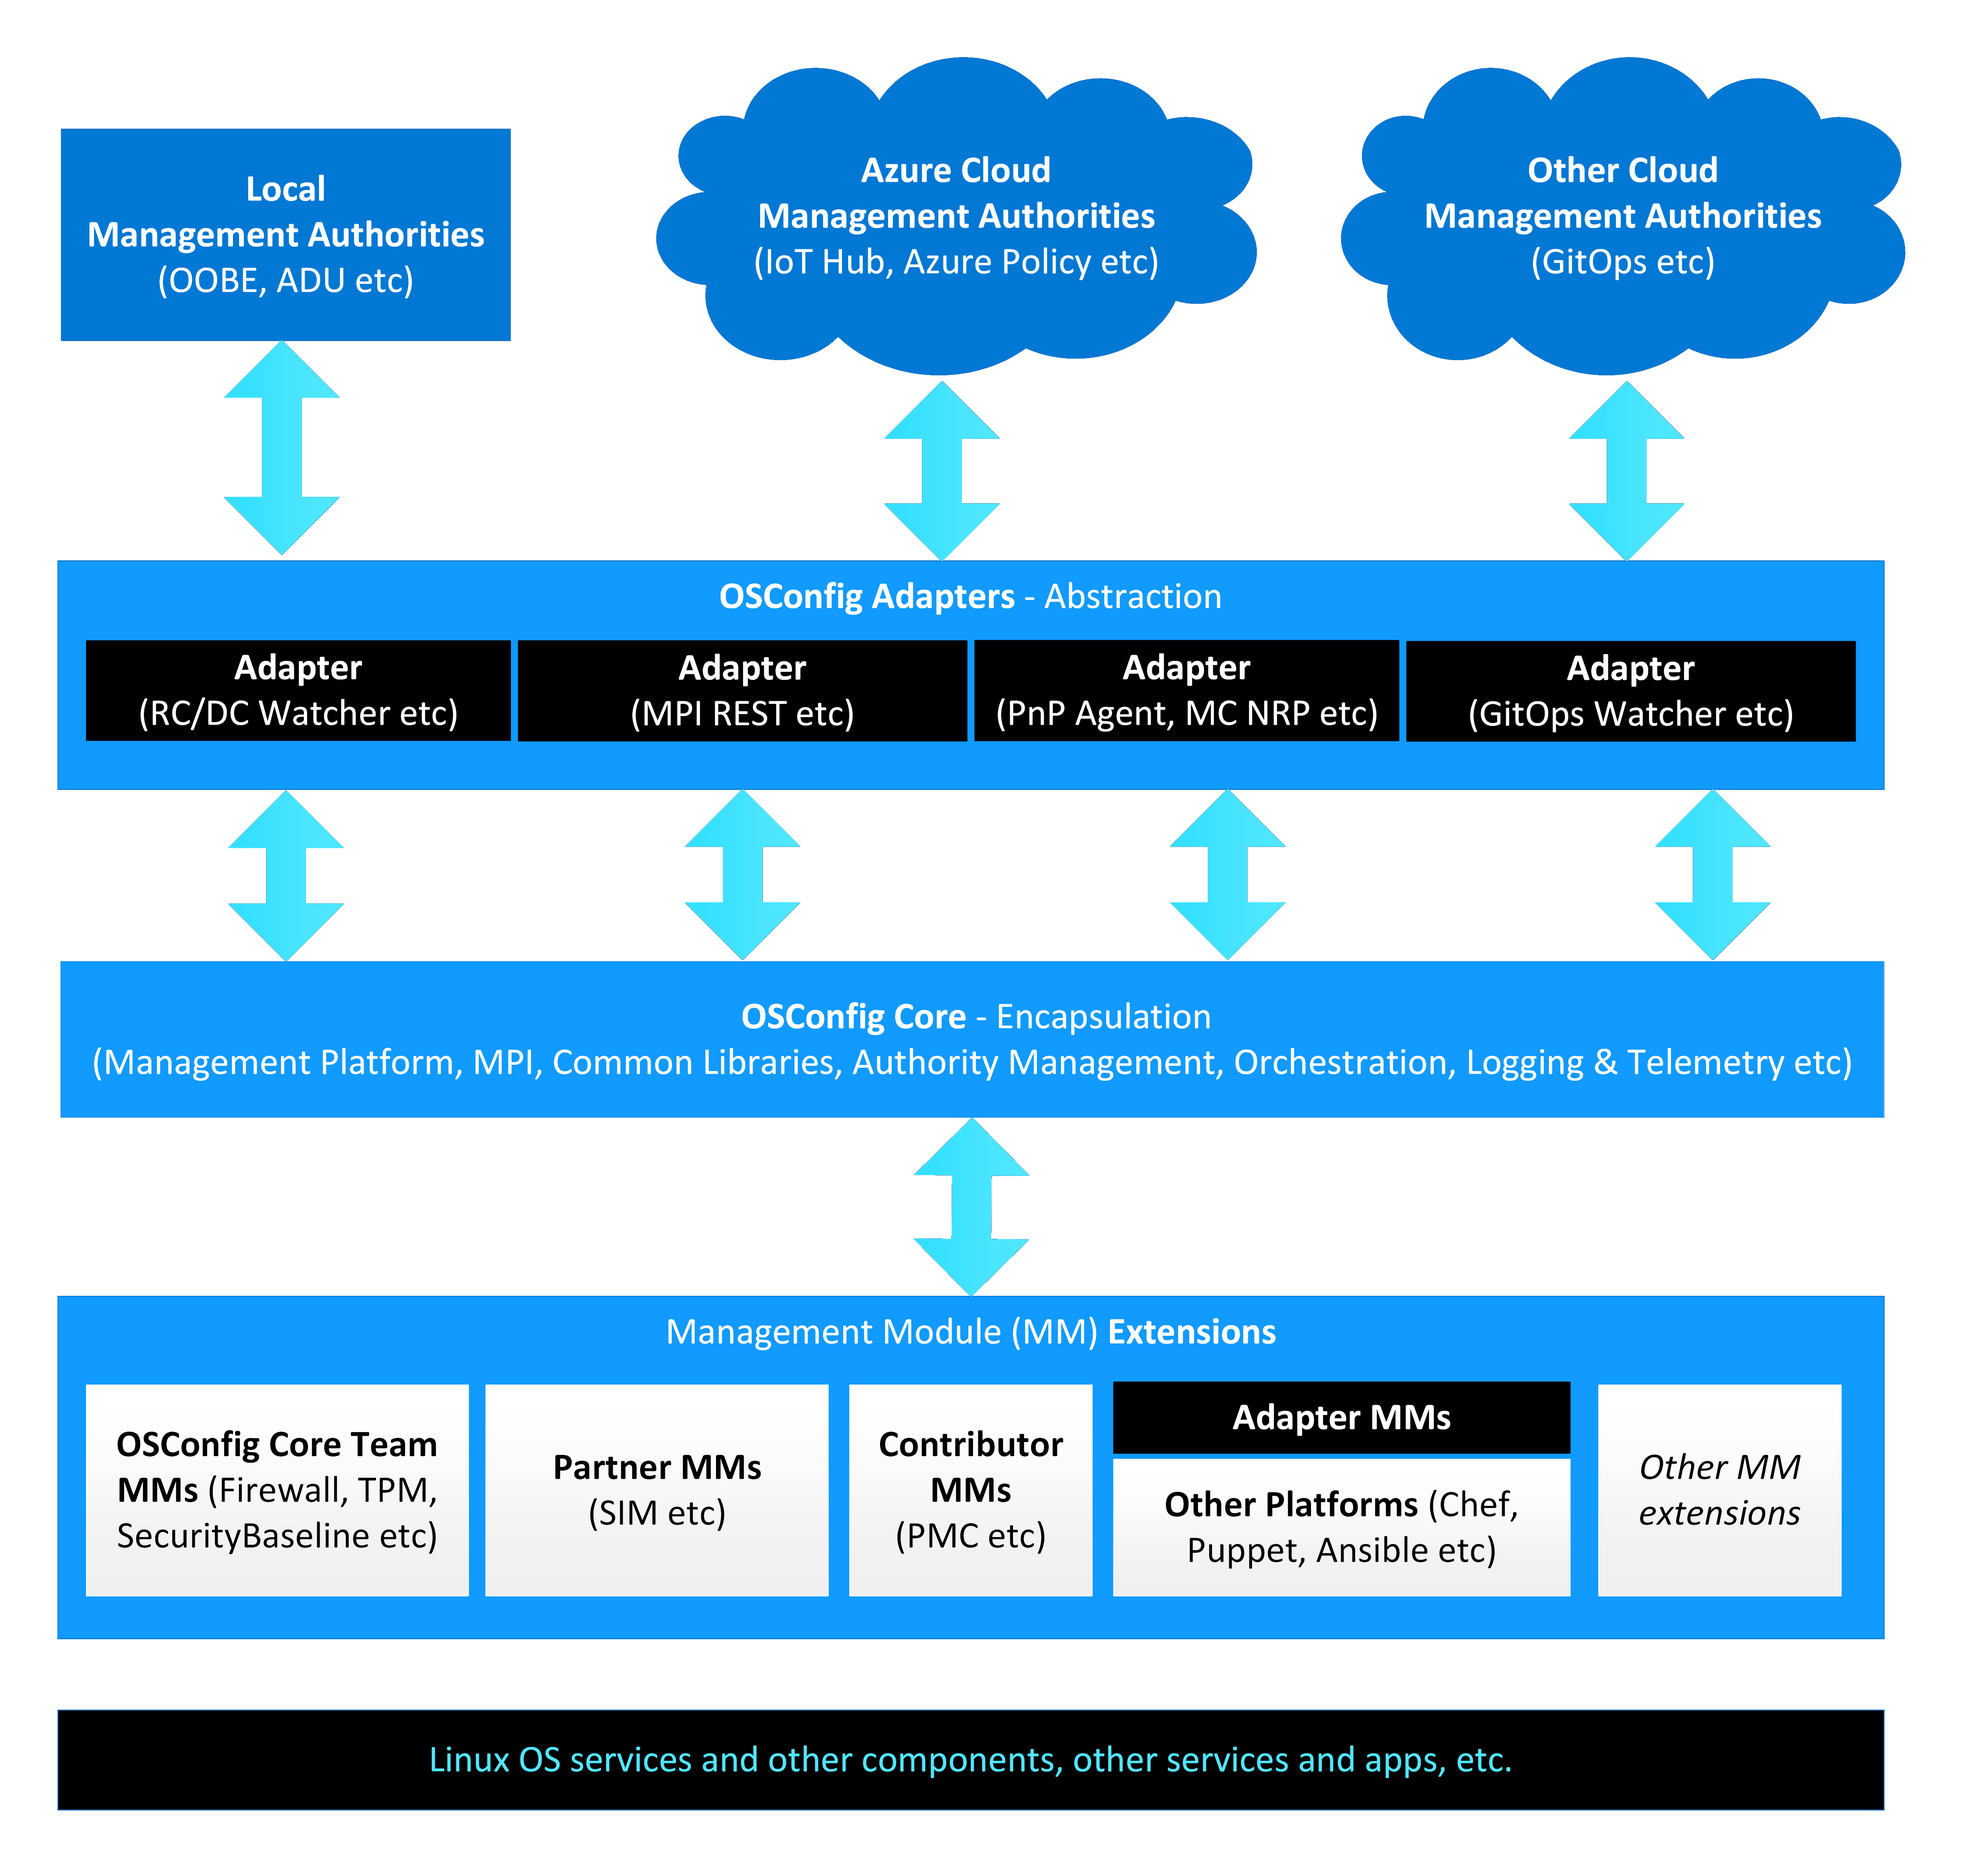
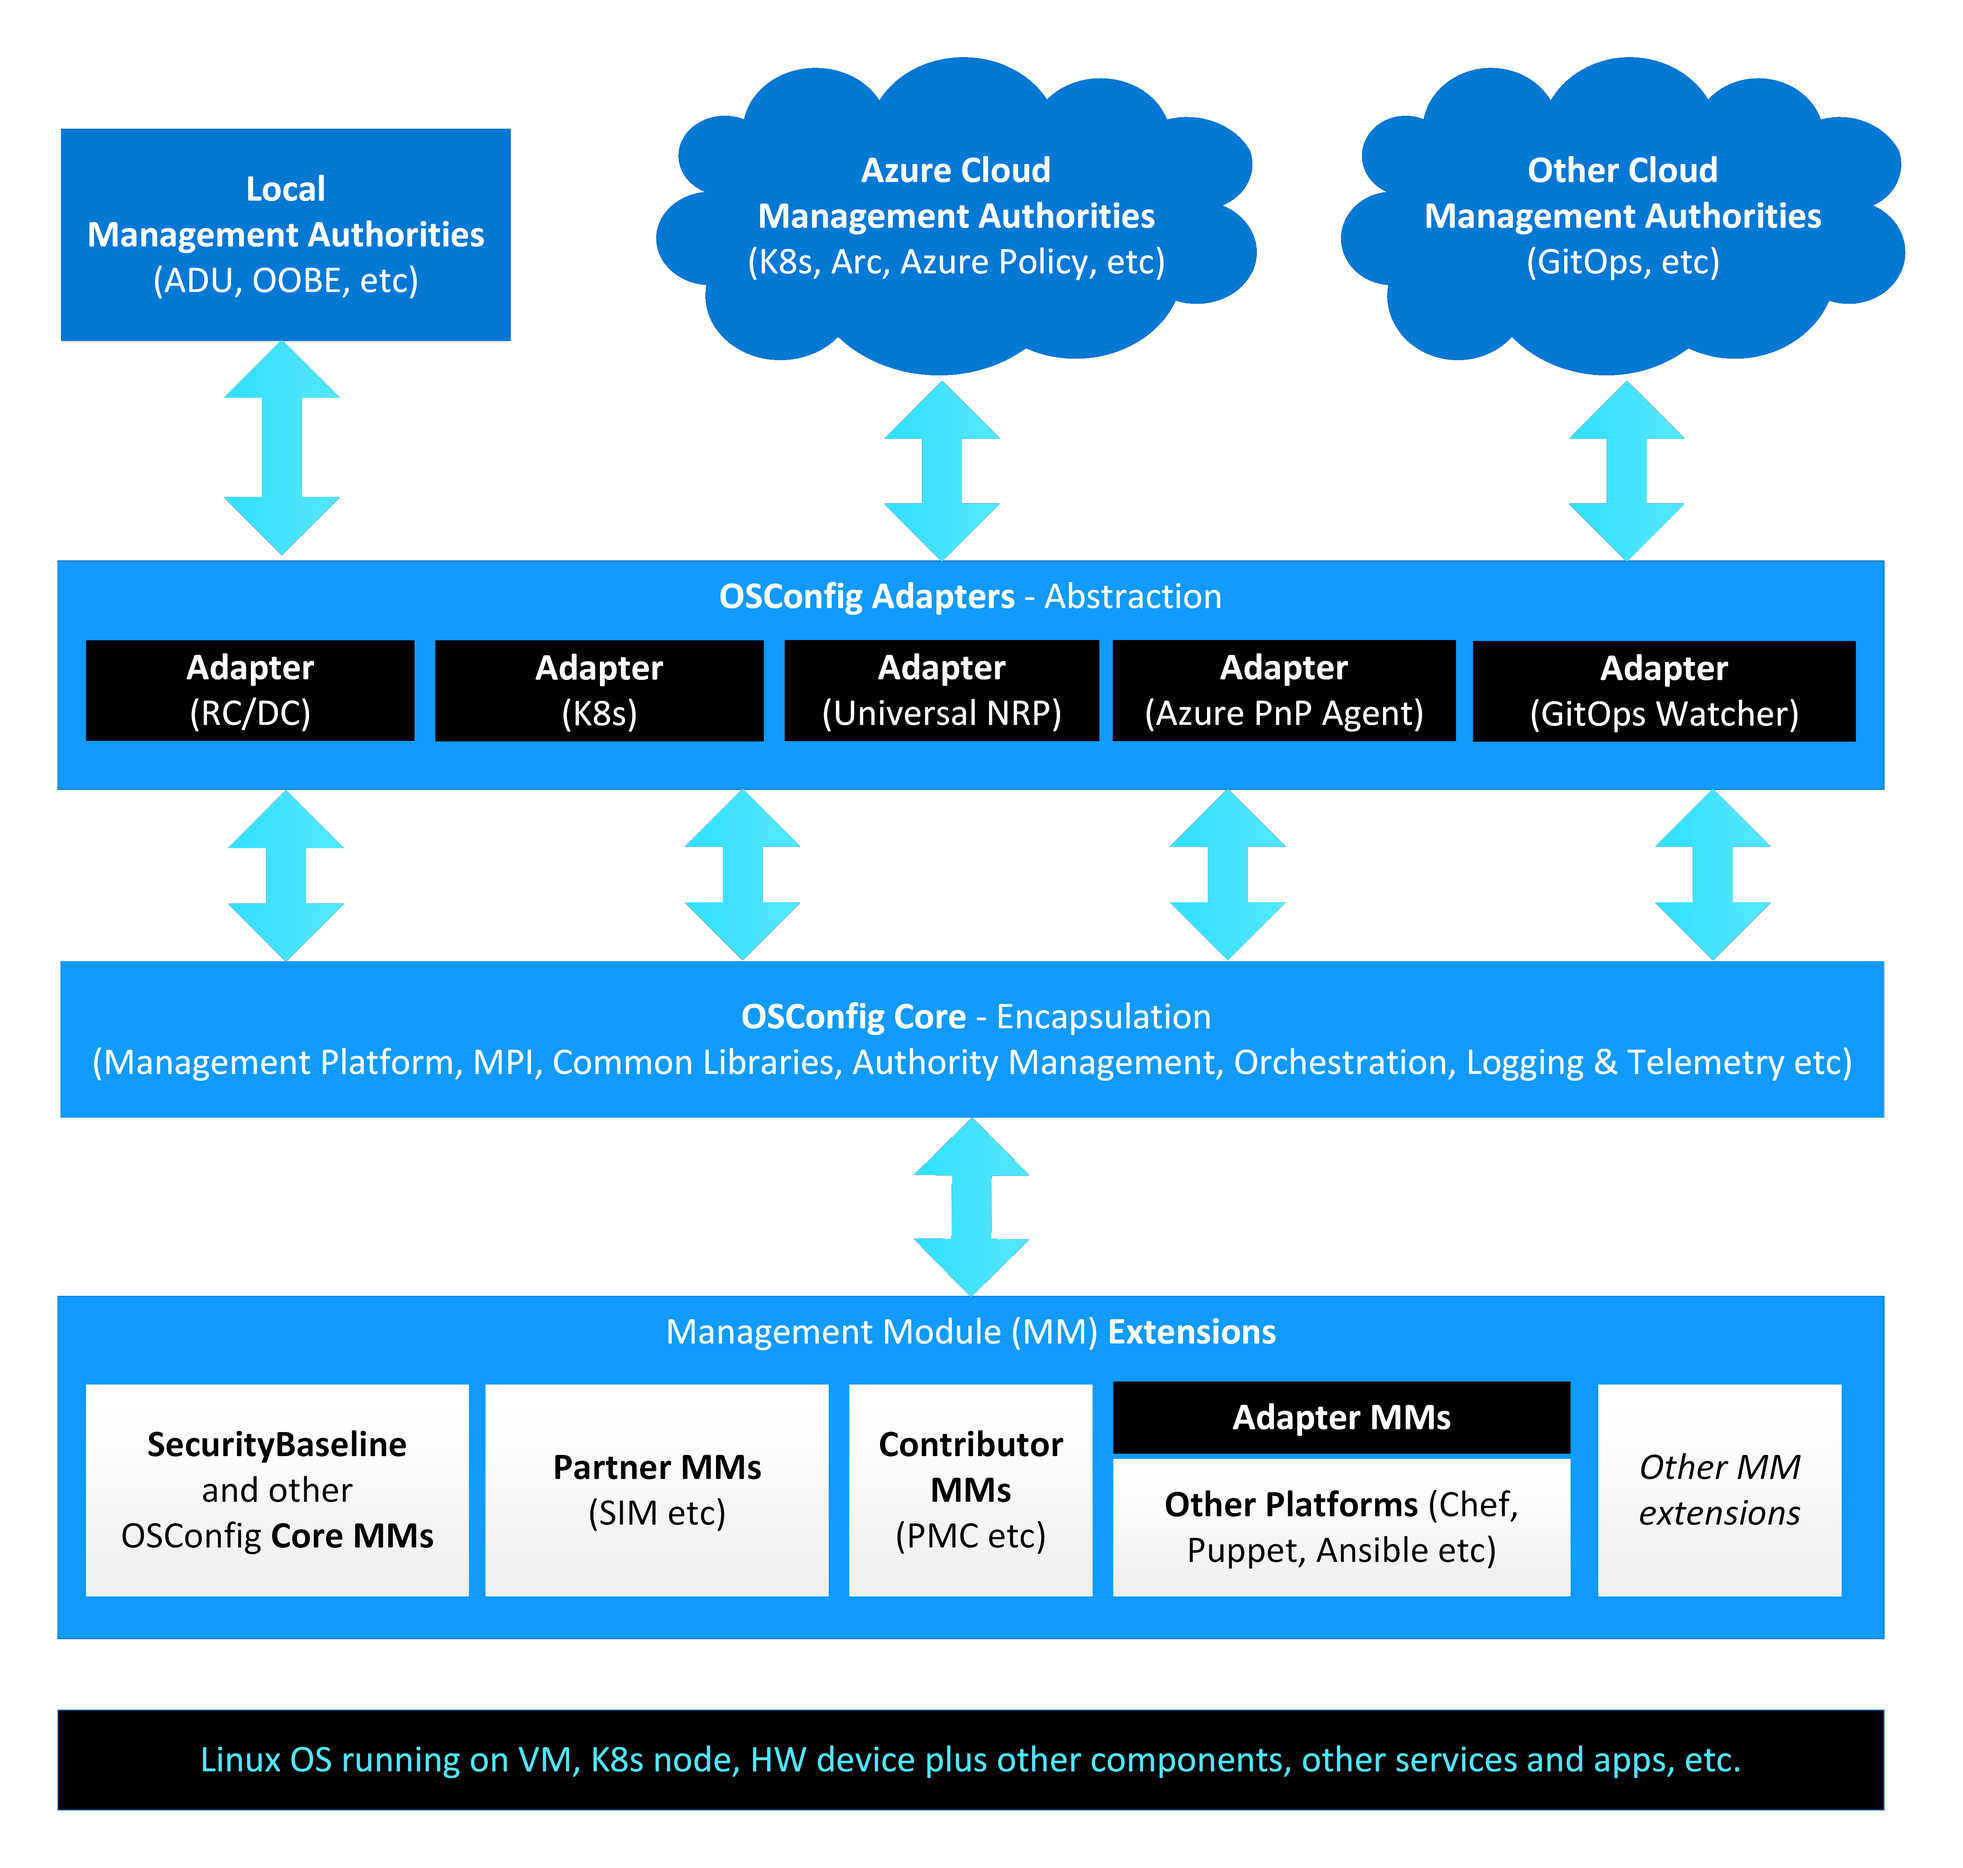
Updating project documentation for catching up with source code (#640)

diff --git a/docs/roadmap.md b/docs/roadmap.md
@@ -4,9 +4,9 @@ Author: [MariusNi](https://github.com/MariusNi)
 
 # 1. Introduction
 
-Azure Device OS Configuration (OSConfig) is a modular services stack running on a Linux IoT Edge device that facilitates remote device management over Azure as well from local management authorities.
+Azure OSConfig is a modular security configuration stack for Linux Edge devices. OSConfig supports multi-authority device management over Azure and Azure Portal/CLI, GitOps, as well as local management.
 
-Development of OSConfig happens in stages. This document describes the development roadmap of the OSConfig project.
+This document describes the development roadmap of the OSConfig project.
 
 During any of these stages OSConfig can be extended by adding new [OSConfig Management Modules](modules.md).
 
@@ -55,26 +55,35 @@ OSConfig continues to run as a monolithic process and can accept requests from a
  
 # 4. Detached Platform (codename Copper)
 
-The Management Platform runs in its own process, separate of the PnP Agent. OSConfig can accept request from both local and remote management authorities.
+The concept of Adapters is introduced. The Management Platform runs in its own process. OSConfig can accept request from both local and remote management authorities.
 
 - The OSConfig separates the Agent and the Management Platform into two separate daemon processes.
 - The IPC REST API over Unix Domain Sockets (UDS) and HTTP for MPI is introduced.
-- The Management Platform can accept MPI requests from other Agent Authorities (like ADU).
+- The Management Platform can accept MPI requests from other Managament Authority Adapters.
 - Modules continue to work unchanged, same as in previous releases, as Dynamically Loaded Shared Object libraries exporting the MMI C API. The Platform loads these libraries in-proc.
 - Other Management Modules appear (not shown in diagram).
 
 <img src="assets/4_platform.png" alt="Copper" width=70%/>
+
+# 5. GitOps, Azure Policy, Security Baseline (codename Germanium)
+
+The Universal NRP and the Security Modules can be used to audit and remediate the Linux Security Baseline over Azure Policy and AutoManage Machine Configuration.
+
+- A new OSConfig Universal NRP is added for Azure Policy and Machine Configuration.
+- A new GitOps DC Watcher is added for accepting desired configuration from a Git repository.
+- A new SecurityModule module implements the Azure Security Baseline for Linux.
+- Modules continue to work unchanged, same as in previous releases, as Dynamically Loaded Shared Object libraries exporting the MMI C API. The Platform loads these libraries in-proc.
+
+<img src="assets/7_osconfig_ge.png" alt="Germanium" width=70%/>
   
-# 5. Isolated Modules - the current North Star (codename Gallium)
+# 6. Isolated Modules - the current North Star (codename Krypton)
 
 Main target scenario: OSConfig Management Modules run isolated in their own processes, Azure Policy and GitHub
 
 - The IPC REST API over UDS for Management Modules Interface (MMI) is introduced.
 - The Module Host is introduced. The Modules Manager instead of loading in-proc the module libraries, it forks a Module Host process to load each module library out-of-proc of the platform.
 - Modules continue to work unchanged, same as in previous releases, as Dynamically Loaded Shared Object libraries exporting the MMI C API. The Module Host provides the MMI REST API on top.
-- A new OSConfig NRP is added for MC and Azure Policy.
-- The local management RC/DC are complemented with a remote Git DC.
 - New Storage and Downloader utility libraries are introduced for Platform and Modules to use.
 - Other new Management Modules appear (not shown in diagram).
 
-<img src="assets/osconfig.png" alt="Zinc" width=70%/>
+<img src="assets/osconfig.png" alt="Krypton" width=70%/>

diff --git a/docs/modules.md b/docs/modules.md
@@ -4,17 +4,17 @@ Author: [MariusNi](https://github.com/MariusNi)
 
 # 1. Introduction
 
-Azure Device OS Configuration (OSConfig) is a modular services stack running on a Linux IoT Edge device that facilitates remote device management over Azure as well from local management authorities. 
+Azure OSConfig is a modular security configuration stack for Linux Edge devices. 
 
-OSConfig contains a PnP Agent, a Management Platform (Modules Manager) and several Management Modules.
+OSConfig contains a set of Adapters, a Management Platform (including a Modules Manager) and several Management Modules.
 
 The main way of contributing to and extending OSConfig is via developing new Management Modules.
 
-Each Management Module typically implements one device OS configuration function. OSConfig isolates the module from the PnP and Digital Twins Definition Language (DTDL) protocols and from the Edge authentication with the IoT Hub. OSConfig communicates with the module via the Module Interface Model (MIM) and the Management Module Interface (MMI) API that each module implements. The module developer is not required to learn Azure IoT technologies like PnP,  DTDL, DPS, AIS, etc. and instead can focus on designing the PnP-agnostic MIM and implement the module. If needed, the MIM can then be easily translated to DTDL with minimal changes.
+Each Management Module typically implements one device OS configuration function. OSConfig isolates the module from the management authority protocols (such as: Digital Twins Definition Language). OSConfig communicates with the module via the Module Interface Model (MIM) and the Management Module Interface (MMI) API that each module implements. The module developer is not required to learn Azure technologies like MC, PnP,  DTDL, DPS, AIS, etc. and instead can focus on designing the MIM and implement the module. If needed, the MIM can then be easily translated to DTDL or other formats with minimal changes.
  
 This document describes the OSConfig Management Modules and it's meant to serve as a guide for the design and development of such modules. 
 
-For more information on OSConfig see the [OSConfig North Star Architecture](architecture.md) and [OSConfig Roadmap](roadmap.md) documents.
+For more information on OSConfig see the [OSConfig North Star Architecture](architecture.md).
 
 # 2. Architecture Overview
 
@@ -26,11 +26,11 @@ This diagram shows the overall OSConfig North Star architecture. Not all compone
 
 ## 3.1. Introduction
 
-This section describes the PnP/DTDL-agnostic Module Interface Model (MIM). 
+This section describes the Module Interface Model (MIM). 
 
 The MIM describes the device configuration the module can perform and defines the valid payload for Management Module Interface (MMI) Get/Set API calls.  
 
-Each module must have its own MIM. Typically development of a new mlodule starts with the MIM. Once the MIM is complete the module can be implemented to follow that MIM.
+Each module must have its own MIM. Typically development of a new module starts with the MIM. Once the MIM is complete the module can be implemented to follow that MIM.
 
 The MIM is composed by one or more MIM components, each component containing one or more MIM objects, each object being either desired or reported and containing one or several MIM settings. In other words a MIM can be described as lists of components, objects and settings.
 

diff --git a/README.md b/README.md
@@ -2,7 +2,7 @@
 
 [![License: MIT](https://img.shields.io/badge/License-MIT-blue.svg)](LICENSE.md)
 
-Azure Device OS Configuration (OSConfig) is a modular configuration stack for Linux Edge devices. OSConfig supports multi-authority device management over Azure and Azure Portal/CLI (via Azure PnP, IoT Hub, Azure Policy), GitOps, as well as local management (such as from Out Of Box Experience, OOBE).
+Azure OSConfig is a modular security configuration stack for Linux Edge devices. OSConfig supports multi-authority device management over Azure and Azure Portal/CLI, GitOps, as well as local management.
 
 For more information on OSConfig see [OSConfig North Star Architecture](docs/architecture.md) and [OSConfig Management Modules](docs/modules.md).
 
